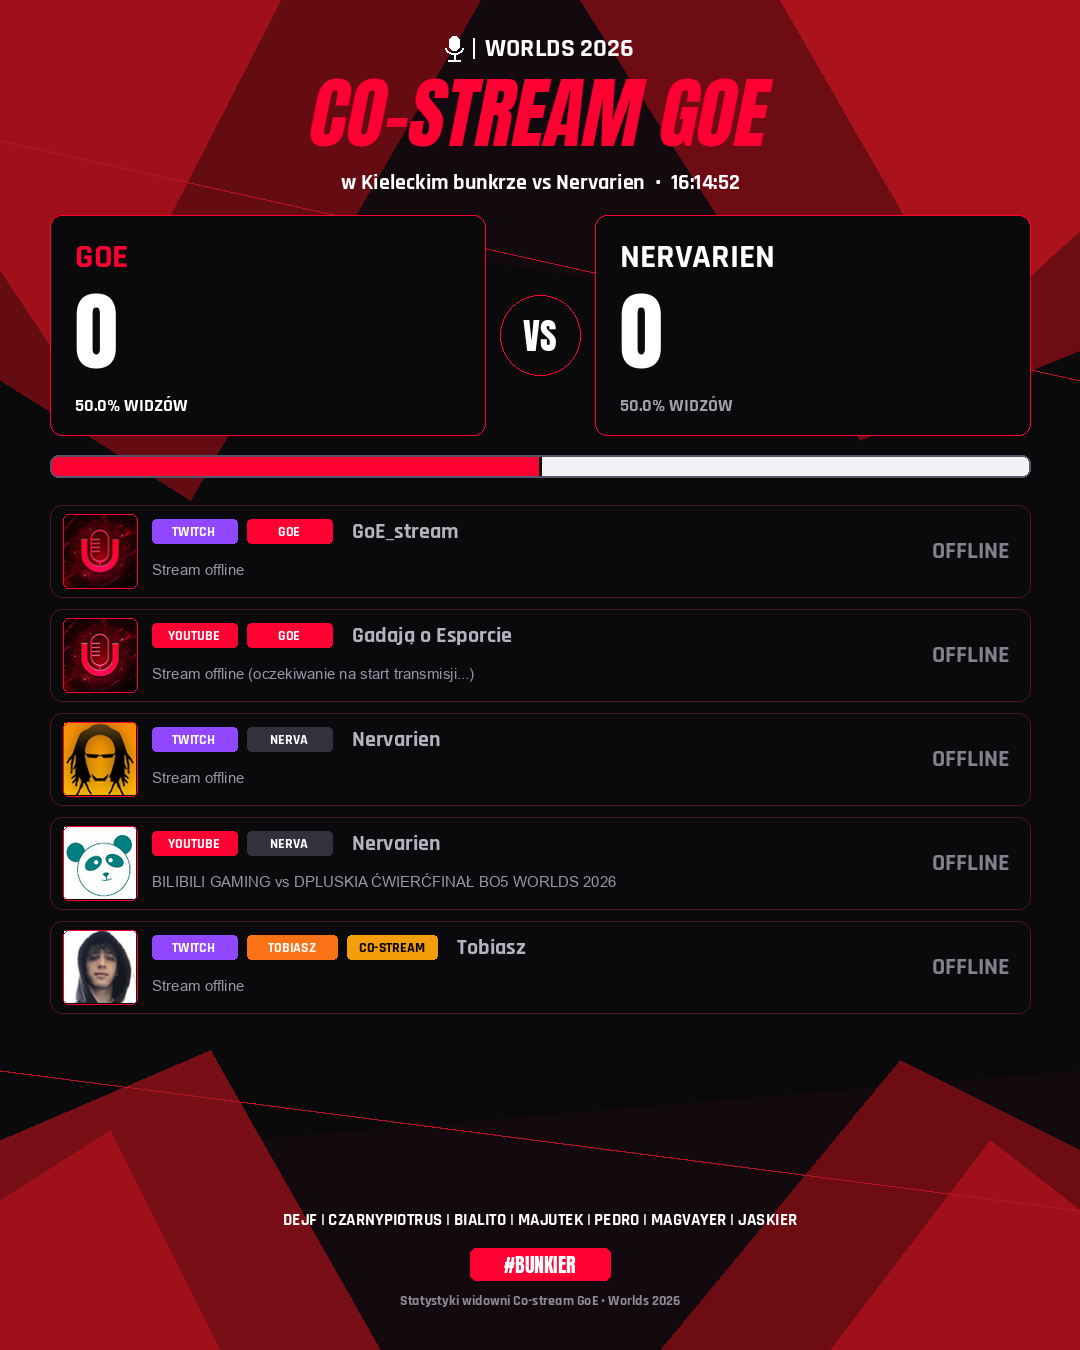
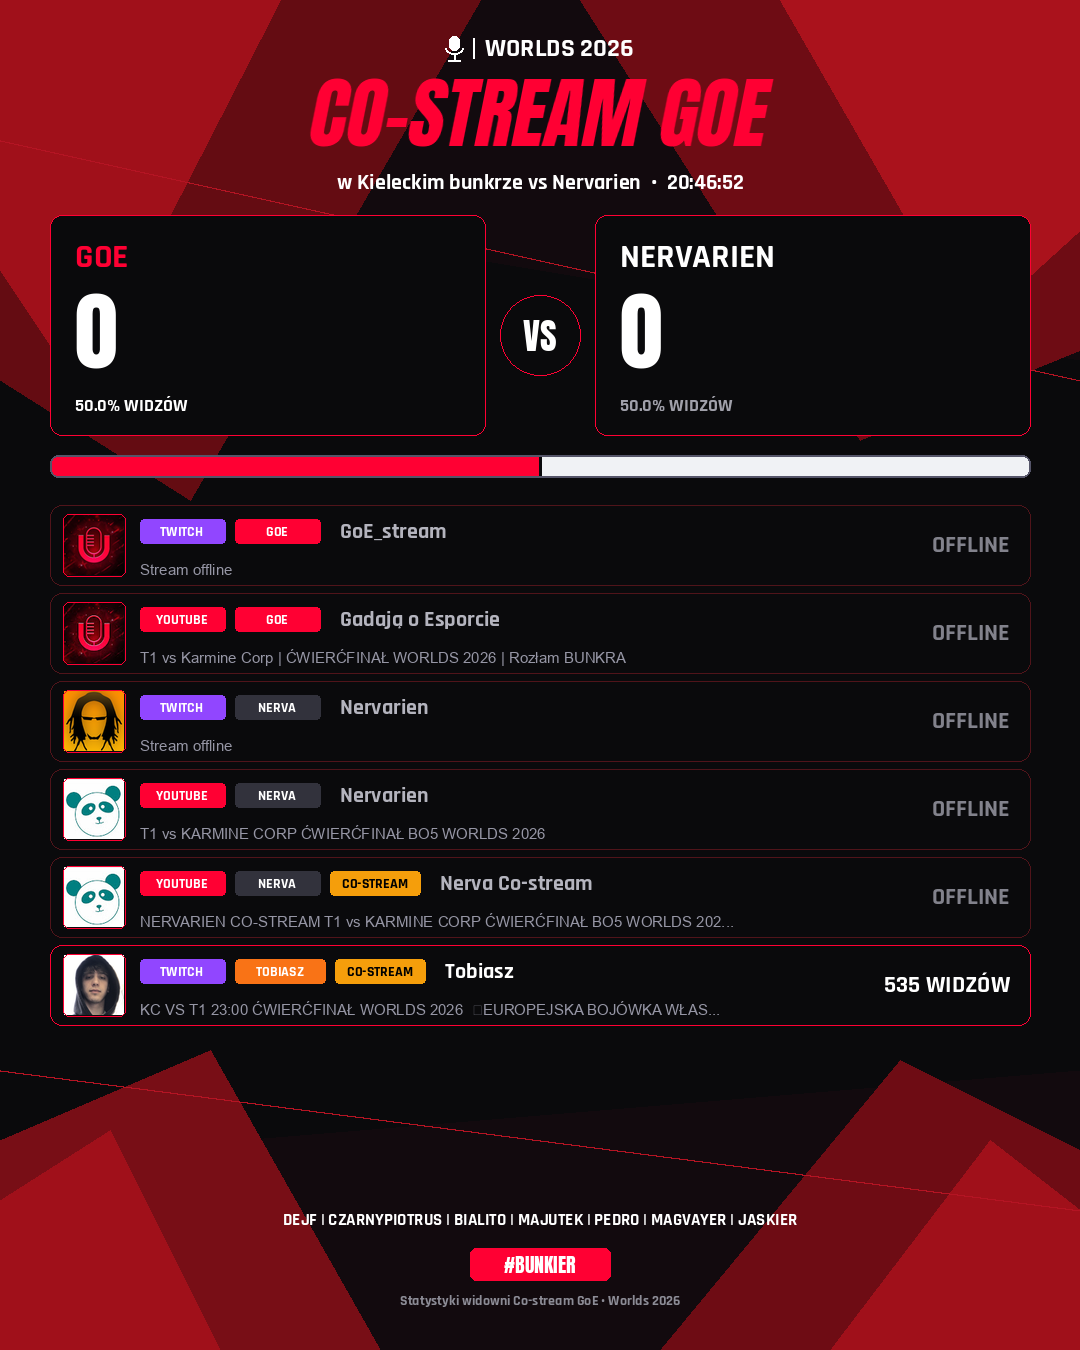
Configure streams, schedule, and pre-stream assets for Day 4

diff --git a/index.html b/index.html
@@ -1736,7 +1736,7 @@
                 isTwitch: false,
                 getValue: (pt, fb) => {
                     for (const [sid, s] of Object.entries(pt.streams || {})) {
-                        if (sid === 'I2E60nEUXWo' || sid === 'dKZGkF2mIDU' || sid === 'jcO4IHpR7XE' || sid === '@gadaja_' || STREAM_METADATA[sid]?.platform === 'YouTube' && STREAM_METADATA[sid]?.group === 'GOE') {
+                        if (sid === 'I2E60nEUXWo' || sid === 'dKZGkF2mIDU' || sid === 'jcO4IHpR7XE' || sid === 'Zv_21UIAKAc' || sid === '@gadaja_' || STREAM_METADATA[sid]?.platform === 'YouTube' && STREAM_METADATA[sid]?.group === 'GOE') {
                             return fb ? (s.viewers || 0) : (s.viewers_raw || s.viewers || 0);
                         }
                     }
@@ -1884,14 +1884,17 @@
             'I2E60nEUXWo': { name: 'GoE YouTube', platform: 'YouTube', group: 'GOE', color: '#ef4444' },
             'dKZGkF2mIDU': { name: 'GoE YouTube', platform: 'YouTube', group: 'GOE', color: '#ef4444' },
             'jcO4IHpR7XE': { name: 'GoE YouTube', platform: 'YouTube', group: 'GOE', color: '#ef4444' },
+            'Zv_21UIAKAc': { name: 'GoE YouTube', platform: 'YouTube', group: 'GOE', color: '#ef4444' },
             '@gadaja_': { name: 'GoE YouTube', platform: 'YouTube', group: 'GOE', color: '#ef4444' },
             'nervarien': { name: 'Nervarien Twitch', platform: 'Twitch', group: 'NERVA', color: '#cbd5e1' },
             'SGAaZFSc3Zk': { name: 'Nervarien YouTube', platform: 'YouTube', group: 'NERVA', color: '#dc2626' },
             '00uONX5EBiA': { name: 'Nervarien YouTube', platform: 'YouTube', group: 'NERVA', color: '#dc2626' },
             'x3HI_AwFKEU': { name: 'Nervarien YouTube', platform: 'YouTube', group: 'NERVA', color: '#dc2626' },
+            'vxdgguSxRyE': { name: 'Nervarien YouTube', platform: 'YouTube', group: 'NERVA', color: '#dc2626' },
             '@nervarien': { name: 'Nervarien YouTube', platform: 'YouTube', group: 'NERVA', color: '#dc2626' },
             'woX6jXefVdw': { name: 'Nerva Co-stream', platform: 'YouTube', group: 'NERVA', color: '#f59e0b', is_costream: true },
             'N3i_DQlKL_U': { name: 'Nerva Co-stream', platform: 'YouTube', group: 'NERVA', color: '#f59e0b', is_costream: true },
+            'd97hINx-EHU': { name: 'Nerva Co-stream', platform: 'YouTube', group: 'NERVA', color: '#f59e0b', is_costream: true },
             'ttobias_lol': { name: 'Tobiasz', platform: 'Twitch', group: 'TOBIASZ', color: '#f97316', is_tobias: true }
         };
 

diff --git a/config.py b/config.py
@@ -6,8 +6,8 @@ from datetime import UTC, datetime
 # Multi-day configuration for Worlds 2026 Quarter-Finals
 # Day 1: Nov 3 12:00 UTC to Nov 4 12:00 UTC (Completed)
 # Day 2: Nov 4 12:00 UTC to Nov 5 12:00 UTC (Completed)
-# Day 3: Nov 5 12:00 UTC to Nov 6 12:00 UTC (Today - Start GoE: 21:15 CET)
-# Day 4: Nov 6 12:00 UTC to Nov 7 12:00 UTC (Tomorrow - Start GoE: 21:30 CET)
+# Day 3: Nov 5 12:00 UTC to Nov 6 12:00 UTC (Completed)
+# Day 4: Nov 6 12:00 UTC to Nov 7 12:00 UTC (Today - Start GoE: 21:15 CET)
 DAYS_CONFIG = {
     "day-1": {
         "id": "day-1",
@@ -80,9 +80,9 @@ DAYS_CONFIG = {
     "day-3": {
         "id": "day-3",
         "name": "Dzień 3 (05.11)",
-        "label": "Dzień 3 • 05.11 (Dzisiejszy)",
+        "label": "Dzień 3 • 05.11 (Zakończony)",
         "date": "2026-11-05",
-        "is_finished": False,
+        "is_finished": True,
         "start_utc": "2026-11-05 12:00:00",
         "end_utc": "2026-11-06 12:00:00",
         "schedule": {
@@ -117,29 +117,29 @@ DAYS_CONFIG = {
     "day-4": {
         "id": "day-4",
         "name": "Dzień 4 (06.11)",
-        "label": "Dzień 4 • 06.11 (Jutrzejszy)",
+        "label": "Dzień 4 • 06.11 (Dzisiejszy)",
         "date": "2026-11-06",
         "is_finished": False,
         "start_utc": "2026-11-06 12:00:00",
         "end_utc": "2026-11-07 12:00:00",
         "schedule": {
-            "goe_start": "21:30",
+            "goe_start": "21:15",
             "nerva_start": "22:30",
             "match_start": "23:00",
-            "goe_start_iso": "2026-11-06T21:30:00+01:00",
+            "goe_start_iso": "2026-11-06T21:15:00+01:00",
         },
         "groups": {
             "GOE": {
                 "name": "Gadają o Esporcie (GOE)",
                 "color": "#3b82f6",
                 "twitch": ["goe_stream"],
-                "youtube": ["@gadaja_"],
+                "youtube": ["Zv_21UIAKAc"],
             },
             "NERVA": {
                 "name": "Nervarien",
                 "color": "#ef4444",
                 "twitch": ["nervarien"],
-                "youtube": ["@nervarien"],
+                "youtube": ["vxdgguSxRyE", "d97hINx-EHU"],
             },
             "TOBIASZ": {
                 "name": "Tobiasz",
@@ -148,8 +148,8 @@ DAYS_CONFIG = {
                 "youtube": [],
             },
         },
-        "costream_streams": [],
-        "curiosity_streams": [],
+        "costream_streams": ["d97hINx-EHU"],
+        "curiosity_streams": ["d97hINx-EHU"],
     },
 }
 
@@ -158,6 +158,7 @@ DAYS_CONFIG = {
 COSTREAM_STREAMS = {
     "woX6jXefVdw": {"name": "Nerva Co-stream", "group": "NERVA", "platform": "YouTube"},
     "N3i_DQlKL_U": {"name": "Nerva Co-stream", "group": "NERVA", "platform": "YouTube"},
+    "d97hINx-EHU": {"name": "Nerva Co-stream", "group": "NERVA", "platform": "YouTube"},
     "ttobias_lol": {
         "name": "Tobiasz",
         "group": "TOBIASZ",

diff --git a/build_static.py b/build_static.py
@@ -94,7 +94,14 @@ def export_csv_from_history(history: list[dict], filepath: str):
             for sid, s in streams.items():
                 if sid != "goe_stream" and (
                     (s.get("group") == "GOE" and s.get("platform") == "YouTube")
-                    or sid in ("I2E60nEUXWo", "dKZGkF2mIDU", "jcO4IHpR7XE", "@gadaja_")
+                    or sid
+                    in (
+                        "I2E60nEUXWo",
+                        "dKZGkF2mIDU",
+                        "jcO4IHpR7XE",
+                        "Zv_21UIAKAc",
+                        "@gadaja_",
+                    )
                 ):
                     goe_yt_v = s.get("viewers", 0)
                     goe_yt_raw_v = s.get("viewers_raw", goe_yt_v)
@@ -105,7 +112,7 @@ def export_csv_from_history(history: list[dict], filepath: str):
 
             # 4. Nervarien Official YouTube
             nerva_yt_v = 0
-            for vid in ("SGAaZFSc3Zk", "00uONX5EBiA", "x3HI_AwFKEU"):
+            for vid in ("SGAaZFSc3Zk", "00uONX5EBiA", "x3HI_AwFKEU", "vxdgguSxRyE"):
                 if vid in streams:
                     nerva_yt_v = streams[vid].get("viewers", 0)
                     break
@@ -122,7 +129,7 @@ def export_csv_from_history(history: list[dict], filepath: str):
 
             # 5. Co-streams (Nerva & Tobiasz)
             nerva_costream_v = 0
-            for vid in ("woX6jXefVdw", "N3i_DQlKL_U"):
+            for vid in ("woX6jXefVdw", "N3i_DQlKL_U", "d97hINx-EHU"):
                 if vid in streams:
                     nerva_costream_v = streams[vid].get("viewers", 0)
                     break

diff --git a/generate_summary.py b/generate_summary.py
@@ -136,7 +136,14 @@ def create_summary_card(
                 if sid != "goe_stream" and (
                     s.get("platform") == "YouTube"
                     or s.get("group") == "GOE"
-                    or sid in ("I2E60nEUXWo", "dKZGkF2mIDU", "jcO4IHpR7XE", "@gadaja_")
+                    or sid
+                    in (
+                        "I2E60nEUXWo",
+                        "dKZGkF2mIDU",
+                        "jcO4IHpR7XE",
+                        "Zv_21UIAKAc",
+                        "@gadaja_",
+                    )
                 ):
                     return s.get(
                         "viewers" if filter_bots else "viewers_raw", s.get("viewers", 0)
@@ -522,7 +529,14 @@ def create_summary_card(
                 if sid != "goe_stream" and (
                     s.get("platform") == "YouTube"
                     or s.get("group") == "GOE"
-                    or sid in ("I2E60nEUXWo", "dKZGkF2mIDU", "jcO4IHpR7XE", "@gadaja_")
+                    or sid
+                    in (
+                        "I2E60nEUXWo",
+                        "dKZGkF2mIDU",
+                        "jcO4IHpR7XE",
+                        "Zv_21UIAKAc",
+                        "@gadaja_",
+                    )
                 ):
                     yt_s = s
                     break
